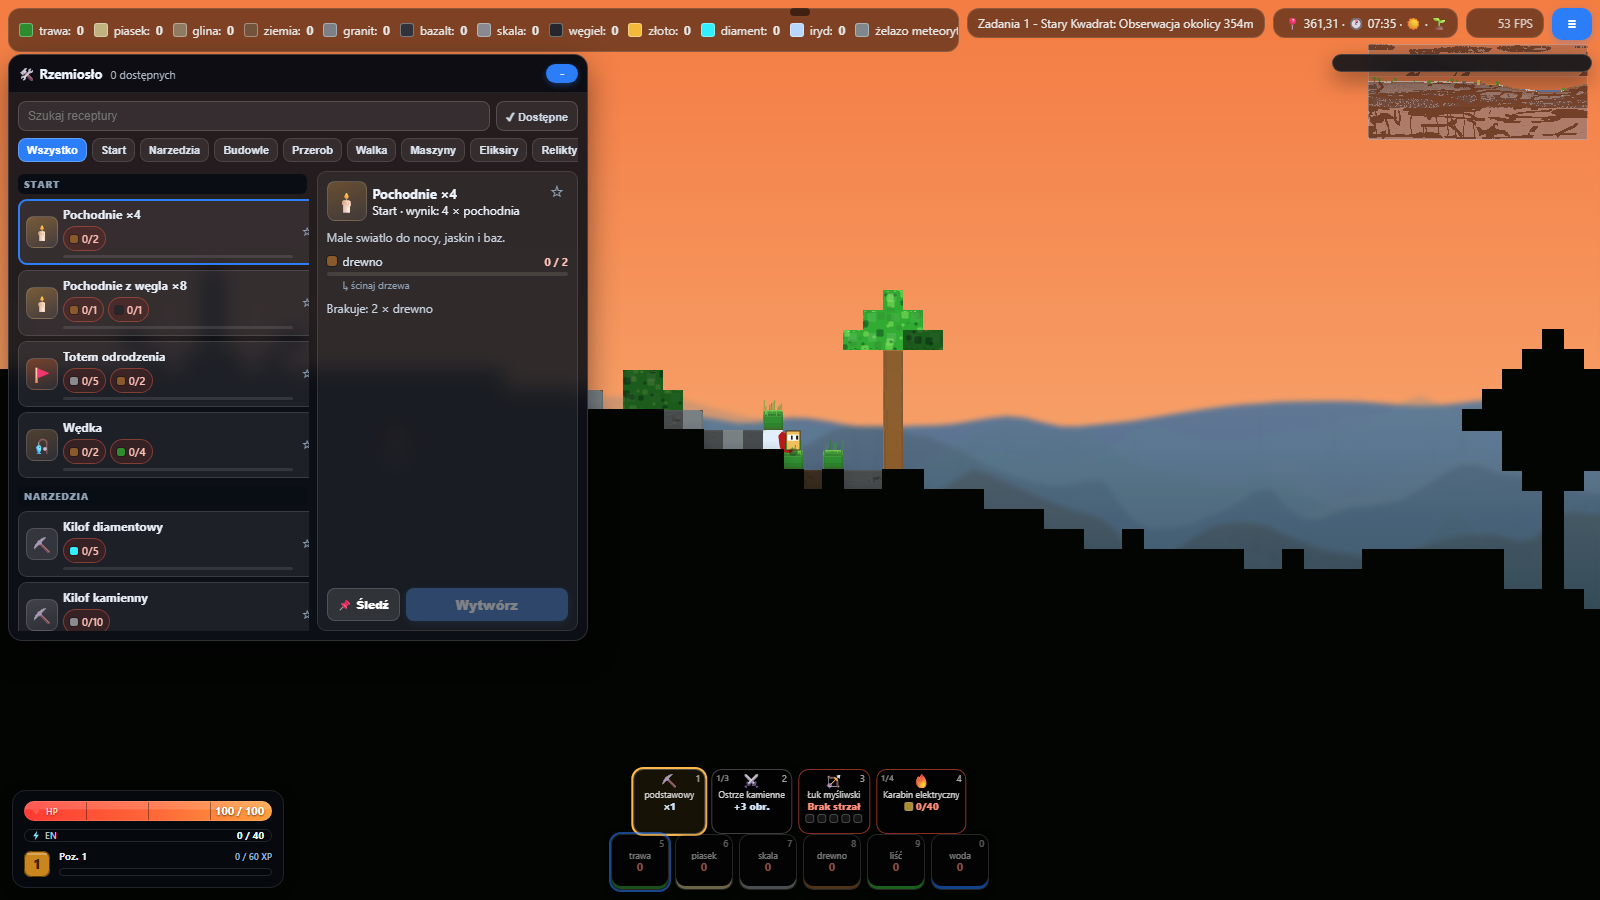
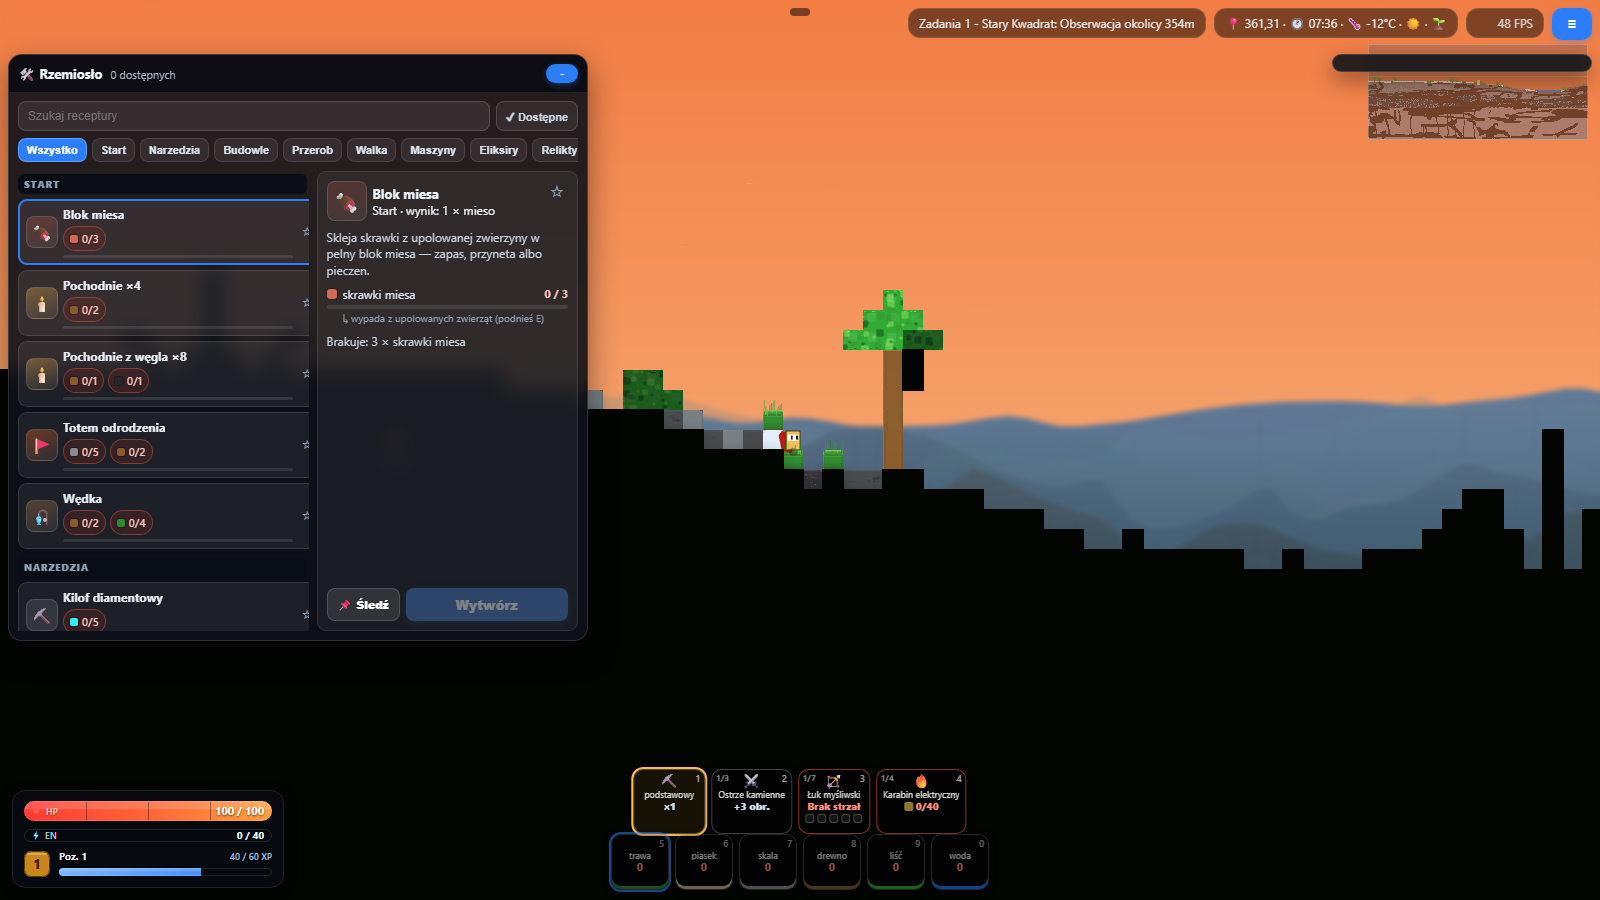
Give the ceremonies voices and prove the arc end-to-end
Two registry cues join audio.js: titleStart (a rising triad on the
title-dismiss click - the gesture that unlocks the ctx, so it is
literally the first sound the simulation makes) and finaleFanfare
(a staggered triangle fanfare resolving into a held chord under the
KONIEC WARSTWY report). title_screen.js and finale.js play them in
place of the borrowed ui cues.

tools/story-arc-qa.mjs drives the COMPLETE story skeleton in the real
game over CDP: mentor handoff, both horizons, the underground gate,
the tower of ambition, the center waking on its own after the heart
of air, the mirror victory, story_complete paying out, the tracker
going quiet, and the finale report auto-opening with all five
guardians checked (tools/story-arc-qa.png). 22/22 assertions, zero
loop errors - live proof the game completes from first task to
closing credits.

diff --git a/src/engine/audio.js b/src/engine/audio.js
@@ -278,6 +278,12 @@ window.MM = window.MM || {};
     jump:   (o)=>{ noise({...o,dur:0.1,peak:0.04,fLo:500,fHi:1300,f1:1600,attack:0.02}); },
     land:   (o)=>{ noise({...o,dur:0.08,peak:Math.min(0.2,0.06+(o&&o.impact||0)*0.01),fLo:110,fHi:340,buf:'brown'}); tone({...o,type:'sine',f0:150,f1:70,dur:0.08,peak:Math.min(0.12,0.03+(o&&o.impact||0)*0.006)}); },
     thunder:(o)=>thunder((o&&o.dist)||10,o),
+    // ceremony voices (title_screen.js / finale.js): the dismiss click is the
+    // gesture that unlocks the ctx, so titleStart doubles as the world's first sound
+    titleStart:(o)=>{ [262,392,523].forEach((f,i)=>tone({...o,type:'sine',f0:f,f1:f*1.01,dur:0.5,peak:0.09,delay:i*0.12,send:0.3})); noise({...o,dur:0.5,peak:0.02,fLo:2400,fHi:7000,ftype:'highpass',delay:0.2}); },
+    finaleFanfare:(o)=>{ [523,659,784,1047].forEach((f,i)=>tone({...o,type:'triangle',f0:f,f1:f,dur:0.3,peak:0.13,delay:i*0.14,send:0.3,priority:true}));
+                   [262,330,392].forEach((f)=>tone({...o,type:'sine',f0:f,f1:f,dur:1.4,peak:0.05,delay:0.62,attack:0.2,send:0.35}));
+                   tone({...o,type:'sine',f0:131,f1:131,dur:1.6,peak:0.06,delay:0.62,attack:0.25,send:0.3}); },
     uiClick:(o)=>{ tone({...o,bus:'ui',type:'sine',f0:900,f1:700,dur:0.05,peak:0.06,send:0}); },
     uiOpen: (o)=>{ tone({...o,bus:'ui',type:'sine',f0:520,f1:760,dur:0.09,peak:0.07,send:0}); },
     uiClose:(o)=>{ tone({...o,bus:'ui',type:'sine',f0:760,f1:500,dur:0.09,peak:0.06,send:0}); },

diff --git a/src/engine/title_screen.js b/src/engine/title_screen.js
@@ -158,7 +158,9 @@ const titleScreen = (function(){
       else { try{ el.remove(); }catch(e){} }
       state.el = null; state.splashEl = null;
     }
-    try{ if(MM.audio && MM.audio.play) MM.audio.play('uiClose'); }catch(e){}
+    // the dismissing click/keypress is the first user gesture: the rising sting
+    // is literally the first sound the simulation makes
+    try{ if(MM.audio && MM.audio.play) MM.audio.play('titleStart'); }catch(e){}
     return true;
   }
   function isOpen(){ return state.open; }

diff --git a/src/engine/finale.js b/src/engine/finale.js
@@ -231,7 +231,7 @@ const finale = (function(){
       try{ document.body.classList.add('mmFinaleOpen'); }catch(e){} // hides the HUD under the ceremony
       root.addEventListener('keydown', onKeyDown, true);
     }
-    try{ if(MM.audio && MM.audio.play) MM.audio.play('milestone'); }catch(e){}
+    try{ if(MM.audio && MM.audio.play) MM.audio.play('finaleFanfare'); }catch(e){}
     return true;
   }
   function close(){